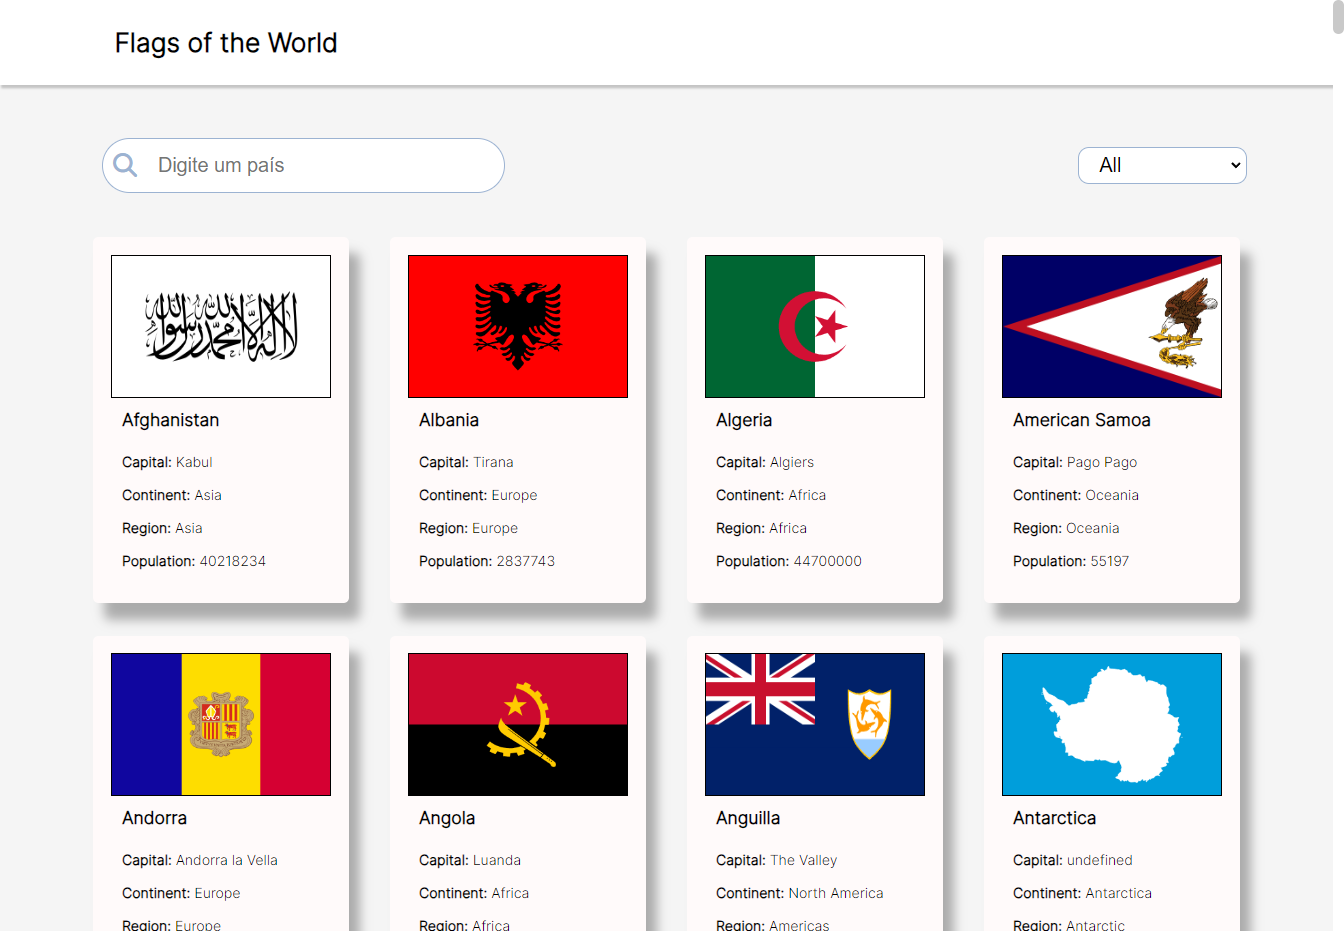
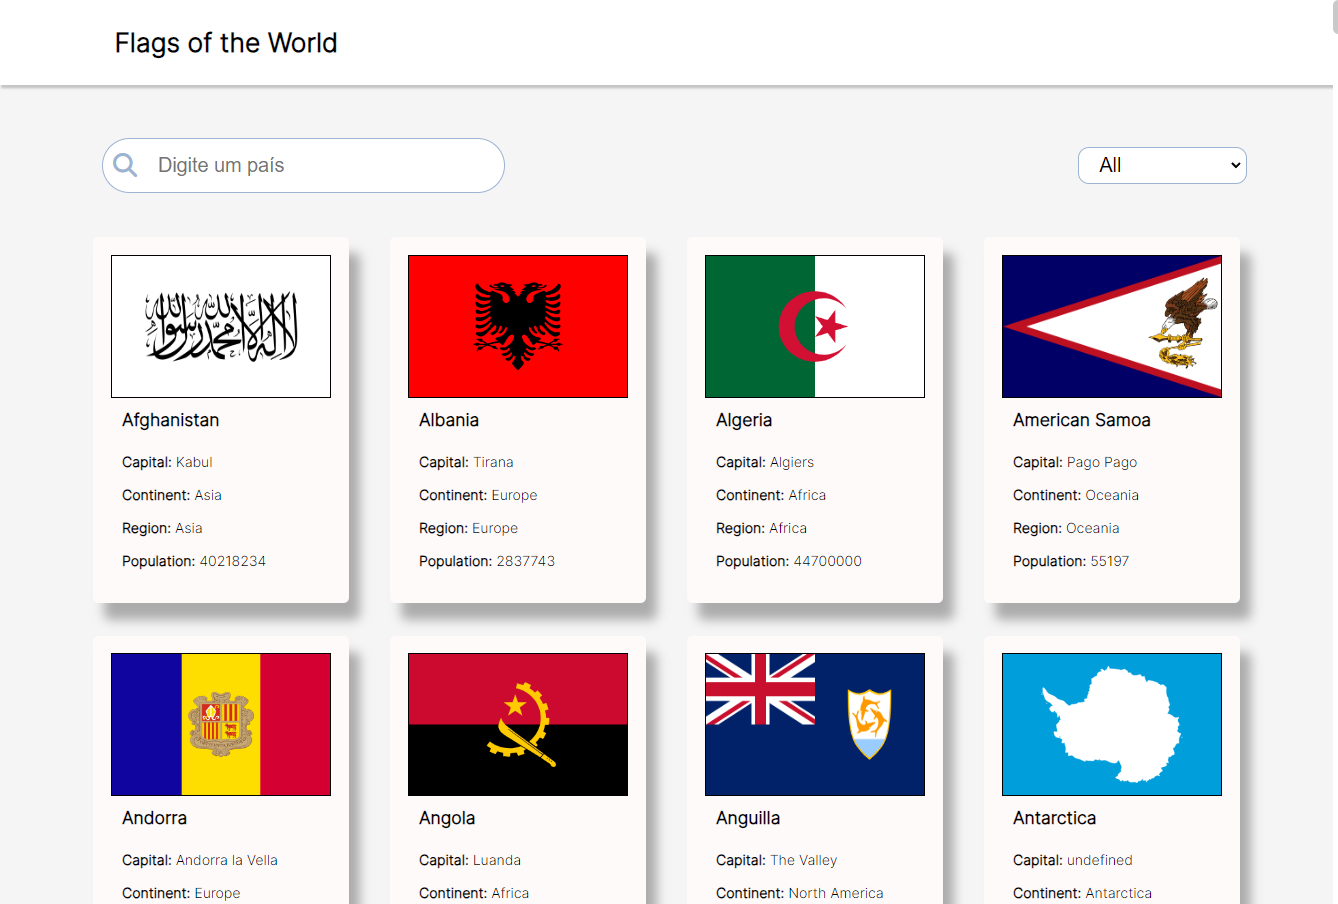
Correcting a little visual bug

diff --git a/css/style.css b/css/style.css
@@ -330,7 +330,7 @@ section {
     box-shadow: 15px 15px 10px rgba(0, 0, 0, 0.3);
     background-color: var(--bg-color3);
     width: 376px;
-    height: 346px;
+    height: 356px;
     display: flex;
     flex-direction: column;
     align-items: center;
